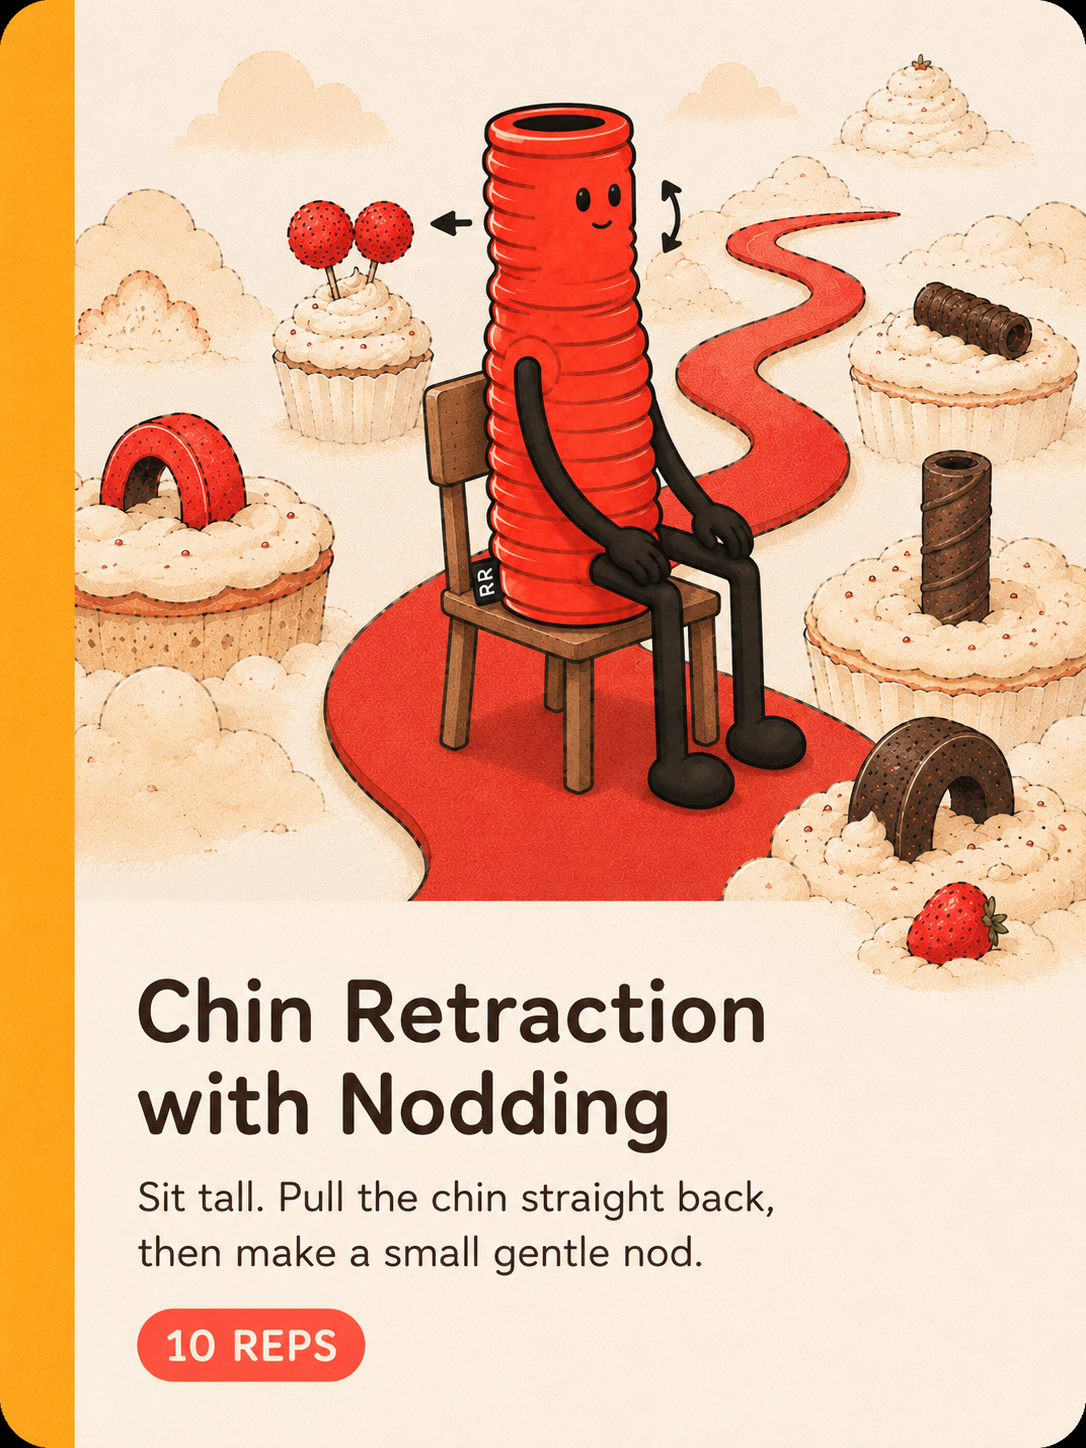
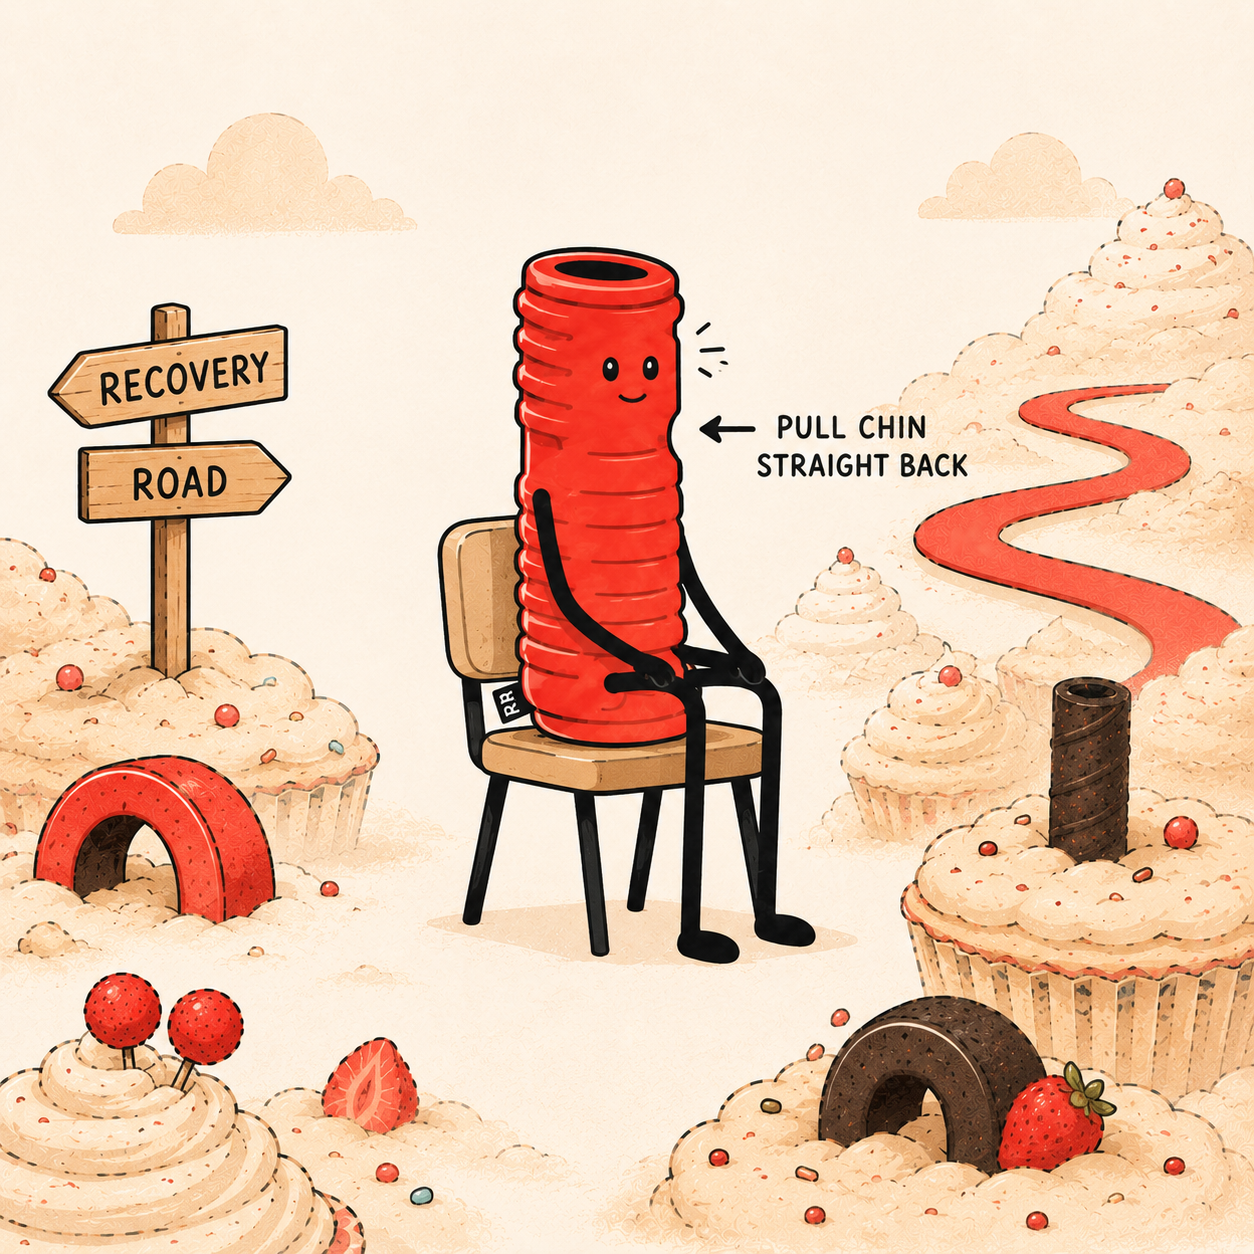
Replace card illustrations with clean artwork (no baked-in borders or text)
Swapped all 5 exercise card images for standalone illustration versions without the physical card design overlay. Added Sit to Stand benchmark illustration. Removed hamstring stretch image (clean version not available yet). Removed CSS crop workaround — images now display at full natural height.

diff --git a/src/data/cardDeck.js b/src/data/cardDeck.js
@@ -75,7 +75,7 @@ export const cardDeck = {
       { id: 'stretch-16', title: 'Piriformis Stretch', area: 'Lower back', instructions: ['Seated option: sit tall at edge of chair, cross right ankle over left knee (figure 4), hinge gently forward from hips, feel stretch in right glute', 'Supine option: lie on back, both knees bent, cross right ankle over left knee, lift left foot off floor, reach through and hold back of left thigh, draw toward chest', 'Use whichever position you have space for', 'Switch sides'], reps: '30 seconds each side, 3–5 times', duration: '3 minutes' },
       { id: 'stretch-17', title: 'Quad Stretch', area: 'Lower back', instructions: ['Stand near wall for balance if needed', 'Bend right knee — hold ankle behind you', 'Keep knees together', 'Tuck tailbone under slightly', 'Stand tall — feel stretch down front of thigh', 'Switch sides'], reps: '30 seconds each side, 3–5 times', duration: '2 minutes', note: 'If you can\'t reach your ankle — loop a Theraband around your foot and hold the ends.' },
       { id: 'stretch-18', title: 'QL Stretch', area: 'Lower back', instructions: ['Stand with feet hip width apart', 'Reach right arm up and overhead', 'Side bend slowly to the left — reaching right arm up and over', 'Feel stretch along right side of lower back into ribcage', 'Hold — breathe into the right side', 'Switch sides'], reps: '30 seconds each side, 3–5 times', duration: '2 minutes', note: 'Keep both feet grounded and hips square.' },
-      { id: 'stretch-19', title: 'Hamstring Stretch', area: 'Lower back', instructions: ['Sit at edge of chair, one leg extended straight in front', 'Keep back straight — don\'t round forward', 'Hinge from hips — lean forward until you feel stretch down back of thigh', 'Hold — breathe normally', 'Switch sides'], reps: '30 seconds each side, 3–5 times', duration: '2 minutes', note: 'The hinge comes from your hips — not your lower back rounding. Keep your chest up.', image: '/illustrations/card-hamstring-stretch.png' },
+      { id: 'stretch-19', title: 'Hamstring Stretch', area: 'Lower back', instructions: ['Sit at edge of chair, one leg extended straight in front', 'Keep back straight — don\'t round forward', 'Hinge from hips — lean forward until you feel stretch down back of thigh', 'Hold — breathe normally', 'Switch sides'], reps: '30 seconds each side, 3–5 times', duration: '2 minutes', note: 'The hinge comes from your hips — not your lower back rounding. Keep your chest up.', },
       { id: 'stretch-20', title: 'Glute Stretch', area: 'Lower back', instructions: ['Sit tall at edge of chair', 'Cross right ankle over left knee — figure 4 position', 'Sit tall — don\'t round lower back', 'Hinge forward gently from hips until you feel stretch in right glute', 'Hold — breathe into right glute', 'Switch sides'], reps: '30 seconds each side, 3–5 times', duration: '2 minutes', note: 'The more upright your spine — the deeper the stretch.' },
       { id: 'stretch-21', title: 'Spinal Flexion Stretch', area: 'Lower back', instructions: ['Seated option: sit at edge of chair, feet flat, let hands drop between knees, slowly curl forward rounding from lower back upward, head drops heavy, take 3 deep breaths at bottom, slowly uncurl back up one vertebra at a time', 'Supine option: lie on back, bring both knees toward chest, hold behind thighs, gently rock side to side, hold and breathe into lower back', 'Use whichever position you have space for'], reps: '8 slow reps seated / 30 seconds supine, 3–5 times', duration: '3 minutes' },
       { id: 'stretch-22', title: 'Lumbar Rotation', area: 'Lower back', instructions: ['Seated option: sit tall, cross right leg over left, rotate toward right, right hand on outside of right knee for gentle assist, hold and breathe, switch sides', 'Supine option: lie on back, both knees bent, let both knees drop slowly to one side, arms out for stability, hold and breathe into lower back, return to centre, alternate sides', 'Use whichever position you have space for'], reps: '30 seconds each side seated / 8 slow reps each side supine', duration: '3 minutes' },
@@ -139,7 +139,7 @@ export const cardDeck = {
       { id: 'benchmark-2', title: 'Front Plank Hold', area: 'Lower back and core', instructions: ['Forearms and toes on the floor', 'Straight line from head to heels', 'Hold as long as you can with good form', 'Stop when hips sag or lift'], benchmark: 'Average hold: women ~72s, men ~110s. People with lower back pain average ~50s. Cap the test at 2 minutes.', source: 'McGill S. Low Back Disorders. 2015.', timer: { type: 'hold', storageKey: 'rr_benchmark_plank' }, image: '/illustrations/card-front-plank-hold.png' },
       { id: 'benchmark-3', title: 'Side Plank Hold', area: 'Lower back and core', instructions: ['Forearm and feet on the floor, hips lifted', 'Straight line from head to feet', 'Hold as long as you can', 'Test both sides'], benchmark: 'Average hold: women ~72s, men ~94s. A difference of more than 10 seconds between sides is worth addressing.', source: 'McGill SM. 1998. Leetun et al. Med Sci Sports Exerc. 2004.', timer: { type: 'sided', mode: 'hold', leftKey: 'rr_benchmark_sideplank_left', rightKey: 'rr_benchmark_sideplank_right', leftLabel: 'Left side', rightLabel: 'Right side', threshold: 10 } },
       { id: 'benchmark-4', title: 'Single Leg Balance, Eyes Closed', area: 'Whole body', instructions: ['Stand on one leg, hands on hips, eyes closed', 'Time until you touch your other foot down or open your eyes', 'Best of 3 trials', 'Test both sides'], benchmark: 'Average: ages 18–39 ~15s, ages 40–49 ~13s. Ages 50+: test with eyes open first — aim for 30+ seconds before attempting eyes closed.', source: 'Springer et al. Journal of Geriatric Physical Therapy. 2007. n=549.', timer: { type: 'sided', mode: 'bestof3', leftKey: 'rr_benchmark_balance_left', rightKey: 'rr_benchmark_balance_right', leftLabel: 'Left leg — best of 3', rightLabel: 'Right leg — best of 3', threshold: 4, thresholdMsg: 'There\'s a gap between sides worth paying attention to (more than 4 seconds)' } },
-      { id: 'benchmark-5', title: 'Sit to Stand', area: 'Lower body strength', instructions: ['Standard chair — seat height around 43–44cm. Chair height significantly affects the result.', 'Arms crossed over chest — no pushing off', 'Stand fully upright, sit back down with control — that\'s one rep', 'Start with both legs — count how many in 1 minute', 'If you hit the benchmark — retest on a single leg'], benchmark: 'Double leg: 30s–40s age group aim for 35+ reps, 50s aim for 30+ reps, 60s+ aim for 23+ reps. Single leg: 23+ reps = solid functional lower limb strength.', source: 'Culvenor et al. 2016.', timer: { type: 'sts', repsKey: 'rr_benchmark_sts_double', leftKey: 'rr_benchmark_sts_left', rightKey: 'rr_benchmark_sts_right' } },
+      { id: 'benchmark-5', title: 'Sit to Stand', image: '/illustrations/card-benchmark-sts.png', area: 'Lower body strength', instructions: ['Standard chair — seat height around 43–44cm. Chair height significantly affects the result.', 'Arms crossed over chest — no pushing off', 'Stand fully upright, sit back down with control — that\'s one rep', 'Start with both legs — count how many in 1 minute', 'If you hit the benchmark — retest on a single leg'], benchmark: 'Double leg: 30s–40s age group aim for 35+ reps, 50s aim for 30+ reps, 60s+ aim for 23+ reps. Single leg: 23+ reps = solid functional lower limb strength.', source: 'Culvenor et al. 2016.', timer: { type: 'sts', repsKey: 'rr_benchmark_sts_double', leftKey: 'rr_benchmark_sts_left', rightKey: 'rr_benchmark_sts_right' } },
       { id: 'benchmark-6', title: 'Single Leg Bridge Hold', area: 'Glutes', instructions: ['Lie on your back, one knee bent and foot flat, other leg extended and held off the floor', 'Lift hips, hold as long as you can with level hips', 'Test both sides'], benchmark: 'Emerging research — treat as a personal baseline. Healthy young adults average roughly 60–65s. More than 10 seconds between sides is worth addressing.', source: 'Worst & Henderson. International Journal of Sports Physical Therapy. 2026. Emerging research — small sample.', timer: { type: 'sided', mode: 'hold', leftKey: 'rr_benchmark_bridge_left', rightKey: 'rr_benchmark_bridge_right', leftLabel: 'Left leg', rightLabel: 'Right leg', threshold: 10 } },
       { id: 'benchmark-bonus', title: 'Back Extensor Endurance Hold', area: 'Lower back', isBonus: true, instructions: ['Lie face down, upper body off the edge of a bench or bed from the hips up, arms crossed over chest', 'Have a partner hold your legs and hips firmly in place', 'Lift upper body until level with hips — straight line from shoulders to heels', 'Hold as long as you can with good form'], benchmark: 'Men: less than 176 seconds is associated with increased risk of developing lower back pain within the following year. More than 198 seconds is associated with absence of lower back pain. Women: treat as a general endurance measure — this predictive relationship was established in men only.', note: 'No partner or bench available? Skip this one — the plank and side plank already give a solid read on trunk endurance.', source: 'Biering-Sørensen. Spine. 1984.', timer: { type: 'hold', storageKey: 'rr_benchmark_back_extensor' } },
     ],

diff --git a/src/screens/CardDetail.jsx b/src/screens/CardDetail.jsx
@@ -61,15 +61,13 @@ export default function CardDetail() {
 
   return (
     <div style={{ flex: 1, overflowY: 'auto', paddingBottom: 80 }}>
-      {/* Illustration — crop to top ~65% to show just the artwork, not the baked-in card text */}
+      {/* Illustration — full width, clean artwork */}
       {card.image ? (
-        <div style={{ width: '100%', paddingBottom: '65%', position: 'relative', overflow: 'hidden' }}>
-          <img
-            src={card.image}
-            alt={card.title}
-            style={{ position: 'absolute', top: 0, left: 0, width: '100%', display: 'block' }}
-          />
-        </div>
+        <img
+          src={card.image}
+          alt={card.title}
+          style={{ width: '100%', display: 'block' }}
+        />
       ) : (
         /* Coloured header strip for cards without an illustration */
         <div style={{ background: section.color, padding: '12px 16px 14px' }}>
